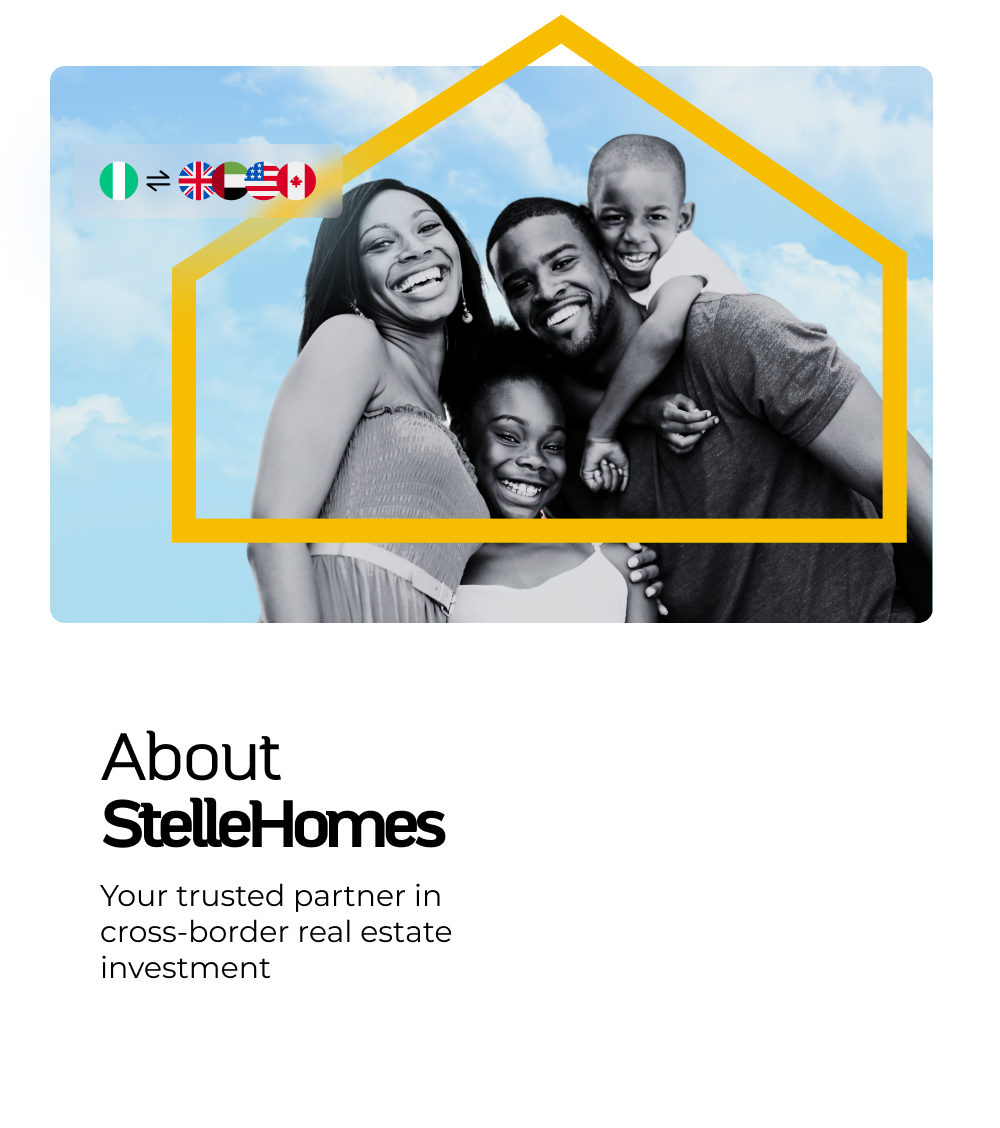
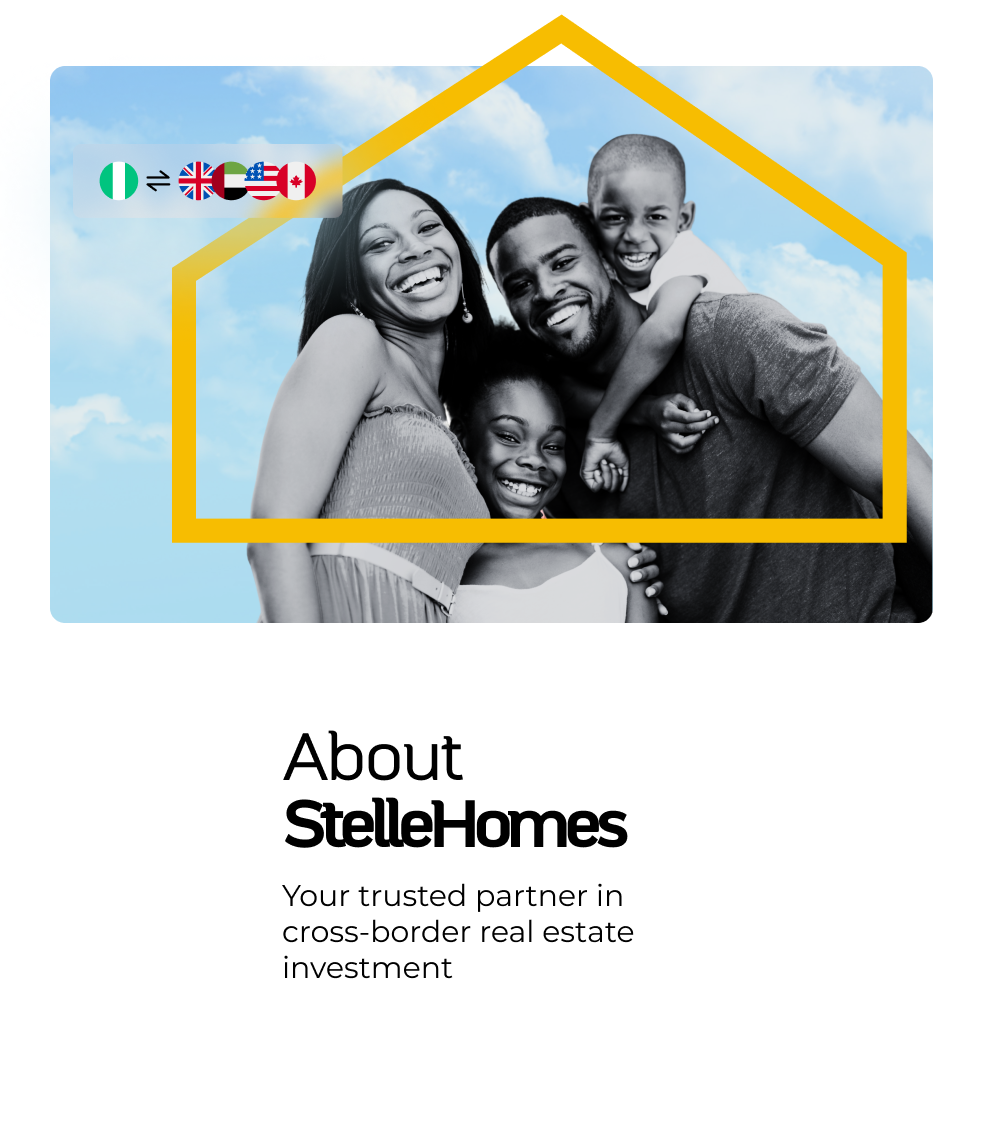
fixed tailwind issues

Changed region(s): [[0.093, 0.6516, 0.651, 0.8688]]

diff --git a/src/components/pages/Services/AdvisorySection.tsx b/src/components/pages/Services/AdvisorySection.tsx
@@ -64,24 +64,23 @@ const servicesData = {
   ],
 };
 
-
 const ServiceCard = ({ service, layout = "default" }: { service: Service; layout?: string }) => {
   return (
     <div
       className={`
         relative w-full max-w-[568px] 
-        h-[172px] 
+        h-auto flex flex-col items-start
+        md:h-[172px] 
         ${layout === "overflow" ? "overflow-hidden" : ""} 
-        max-sm:h-auto max-sm:flex max-sm:flex-col max-sm:items-start
       `}
     >
       <img
-        className="absolute w-[130px] h-[138px] top-1 left-[9px] max-sm:relative max-sm:top-0 max-sm:left-0"
+        className="relative top-0 left-0 md:absolute md:w-[130px] md:h-[138px] md:top-1 md:left-[9px]"
         alt={service.title}
         src={service.image}
       />
       <div
-        className="w-full pl-40 pr-4 absolute top-1 max-sm:pl-0 max-sm:pr-0 max-sm:mt-[8px] max-sm:relative max-sm:top-auto"
+        className="w-full pl-0 pr-0 mt-[8px] relative top-auto md:pl-40 md:pr-4 md:absolute md:top-1"
       >
         <h4 className="[-webkit-text-stroke:0.38px_#000000] font-[MAINLUX-Light] text-black text-[28.2px] leading-[29.3px] mb-1">
           {service.title}
@@ -112,33 +111,38 @@ const SectionHeader = ({
 }) => {
   return (
     <div
-      className={`w-full max-w-[1440px] mx-auto flex flex-col xl1230:flex-row gap-8 mb-16 ${
-        reverse ? "xl1230:flex-row-reverse xl1230:ml-[30px]" : ""
-      }`}
+      className={`w-full max-w-[1440px] mx-auto flex flex-col gap-8 mb-16 
+        md:flex-row 
+        ${reverse ? "md:flex-row-reverse md:ml-[30px]" : ""}`}
     >
       {/* Text */}
       <div
-        className={`w-full xl1230:w-1/2 flex flex-col justify-center ${
-          reverse ? "xl1230:mr-[130px] xl1230:ml-0" : ""
-        }`}
+        className={`w-full flex flex-col justify-center 
+          
+          ${reverse ? "" : ""}`}
       >
-        <h2 className="[-webkit-text-stroke:1.54px_#000000] font-[MAINLUX-Regular] text-black mb-4 text-4xl max-sm:text-5xl xl1230:text-6xl leading-snug">
+        <h2 className="[-webkit-text-stroke:1.54px_#000000] font-[MAINLUX-Regular] text-black mb-4 text-4xl leading-snug 
+          md:text-5xl 
+          lg:text-6xl">
           {title}
         </h2>
-        <p className="font-[Montserrat] text-black text-base max-sm:text-lg xl1230:text-xl leading-relaxed">
+        <p className="font-[Montserrat] text-black text-base leading-relaxed 
+          md:text-lg 
+          lg:text-xl">
           {description}
         </p>
       </div>
 
       {/* Image */}
       <div
-        className={`w-full xl1230:w-[550px] xl1230:flex-shrink-0 ${
-          reverse ? "xl1230:ml-[-50px] xl1230:mr-0" : ""
-        }`}
+        className={`w-full 
+          md:w-[550px] md:flex-shrink-0 
+          ${reverse ? "md:ml-[-50px] md:mr-0" : ""}`}
       >
         <div className="bg-black bg-opacity-20 rounded-[15px] overflow-hidden w-full h-auto">
           <img
-            className="w-full h-auto xl1230:max-w-none xl1230:max-h-none object-cover aspect-[1.7]"
+            className="w-full h-auto object-cover aspect-[1.7] 
+              lg:max-w-none lg:max-h-none"
             alt={title}
             src={image}
           />
@@ -156,7 +160,8 @@ const ServicesGrid = ({ services, title }: { services: Service[]; title: string 
       <h3 className="font-[MAINLUX-semibold] text-black text-[35px] leading-[36.4px] mb-12">
         {title}
       </h3>
-      <div className="grid grid-cols-1 lg:grid-cols-2 gap-6 lg:gap-12">
+      <div className="grid grid-cols-1 gap-6 
+        md:grid-cols-2 md:gap-12">
         {services.map((service, index) => (
           <ServiceCard 
             key={service.id} 
@@ -175,7 +180,8 @@ export const PropertyManagementSection = () => {
     <section className="py-20">
       {/* Section header */}
       <div className="text-center max-w-4xl mx-auto mb-20">
-        <h2 className="[-webkit-text-stroke:1.54px_#000000] font-[MAINLUX-light] text-black text-4xl md:text-6xl leading-[62.4px] mb-8">
+        <h2 className="[-webkit-text-stroke:1.54px_#000000] font-[MAINLUX-light] text-black text-4xl leading-[62.4px] mb-8 
+          md:text-6xl">
           Comprehensive Property Management
         </h2>
         <p className="font-[Montserrat] text-black text-xl leading-[24px]">
@@ -185,9 +191,11 @@ export const PropertyManagementSection = () => {
       </div>
 
       {/* Cards container */}
-      <div className="flex flex-col lg:flex-row gap-8">
+      <div className="flex flex-col gap-8 
+        lg:flex-row">
         {/* Nigerian Properties Card */}
-        <div className="lg:w-1/2 px-4">
+        <div className="px-4 
+          lg:w-1/2">
           <div className="bg-[#ffbf00] rounded-[15px] overflow-hidden flex flex-col h-full">
             <div className="h-[383px] w-full overflow-hidden rounded-t-[15px]">
               <img
@@ -214,7 +222,8 @@ export const PropertyManagementSection = () => {
         </div>
 
         {/* International Properties Card */}
-        <div className="lg:w-1/2 px-4">
+        <div className="px-4 
+          lg:w-1/2">
           <div className="bg-[#ffbf00] rounded-[15px] overflow-hidden flex flex-col h-full">
             <div className="h-[383px] w-full overflow-hidden rounded-t-[15px]">
               <img

diff --git a/src/components/pages/About/MeetOurTeamSection.tsx b/src/components/pages/About/MeetOurTeamSection.tsx
@@ -42,47 +42,46 @@ export const MeetOurTeamSection = (): JSX.Element => {
 
   return (
     <div className="w-full overflow-x-auto bg-white scrollbar-hide">
-
-      <div className="flex px-5 -mt-[50px] w-max h-[854px] max-sm:h-auto max-sm:py-32 max-sm:gap-8">
+      <div className="flex px-5 -mt-[50px] w-max h-auto py-8 gap-8 md:h-[854px] md:py-32 md:gap-0">
         {teamMembers.map((member) => (
           <div
             key={member.id}
-            className="flex items-center justify-center relative max-sm:flex max-sm:gap-6"
+            className="flex items-center justify-center relative gap-4"
           >
-          <div className="relative w-[447px] h-[591px] flex-shrink-0 max-sm:w-[300px] max-sm:h-[400px] max-sm:mx-auto">
-            <div className="relative w-[418px] h-[501px] top-[15px] left-[19px] max-sm:w-[300px] max-sm:h-[350px] max-sm:top-[24px] max-sm:left-[10px]">
-              <div className="absolute top-[54px] w-[418px] h-[447px] bg-[#f7bd01] rounded-[15px] max-sm:top-0 max-sm:w-[300px] max-sm:h-[350px] max-sm:rounded-[10px]" />
-              <img
-                className="absolute w-[418px] h-[501px] sm:top-0 left-0 object-cover max-sm:w-[300px] max-sm:h-[415px] max-sm:bottom-0"
-                alt={member.name}
-                src={member.image}
-              />
-            </div>
-          </div>
-
-          {/* Text card - Fixed width + fixed height */}
-          <div className="flex-shrink-0 max-sm:w-[90vw] max-sm:max-w-[320px] max-sm:mx-auto">
-            <div className="font-[MAINLUX-Regular] flex flex-col w-[567px] h-[450px] 
-                            items-start gap-3.5 px-[40px] pt-[83px] pb-9 
-                            bg-[#d9d9d9] rounded-[15px] 
-                            max-sm:w-[350px] max-sm:h-[350px] max-sm:gap-3 
-                            max-sm:px-5 max-sm:pt-10 max-sm:pb-6 max-sm:rounded-[10px]">
-
-              <div className="[-webkit-text-stroke:0.55px_#000000] text-black text-[40px] font-normal leading-[42px] max-sm:text-[28px] max-sm:leading-[32px]">
-                {member.name}
+            {/* Image container - Reversed dimensions */}
+            <div className="relative w-[300px] h-[400px] flex-shrink-0 mx-auto md:w-[447px] md:h-[591px]">
+              <div className="relative w-[300px] h-[350px] top-[24px] left-[10px] md:w-[418px] md:h-[501px] md:top-[15px] md:left-[19px]">
+                <div className="absolute w-[300px] h-[350px] bg-[#f7bd01] rounded-[10px] top-[60px] md:top-[54px] md:w-[418px] md:h-[447px] md:rounded-[15px]" />
+                <img
+                  className="absolute top-0 left-0 w-[300px] h-[415px] object-cover md:w-[418px] md:h-[501px]"
+                  alt={member.name}
+                  src={member.image}
+                />
               </div>
-
-              <div className="[-webkit-text-stroke:0.55px_#000000] text-black text-3xl font-normal leading-[32px] max-sm:text-[22px] max-sm:leading-[26px]">
-                {member.position}
-              </div>
-
-              <p className="font-[Montserrat] text-black text-xl leading-[24px] 
-                            max-sm:text-base max-sm:leading-[20px] max-sm:w-full max-sm:break-words overflow-hidden">
-                {member.description}
-              </p>
             </div>
-          </div>
 
+            {/* Text card - Reversed dimensions */}
+            <div className="relative top-[60px] md:top-0 flex-shrink-0 w-[90vw] max-w-[320px] mx-auto md:w-auto md:max-w-none">
+              <div className="font-[MAINLUX-Regular] flex flex-col w-[350px] h-[350px] 
+                              items-start gap-3 px-5 pt-10 pb-6 
+                              bg-[#d9d9d9] rounded-[10px] 
+                              md:w-[567px] md:h-[450px] md:gap-3.5 
+                              md:px-[40px] md:pt-[83px] md:pb-9 md:rounded-[15px]">
+
+                <div className="[-webkit-text-stroke:0.55px_#000000] text-black text-[28px] font-normal leading-[32px] md:text-[40px] md:leading-[42px]">
+                  {member.name}
+                </div>
+
+                <div className="[-webkit-text-stroke:0.55px_#000000] text-black text-[22px] font-normal leading-[26px] md:text-3xl md:leading-[32px]">
+                  {member.position}
+                </div>
+
+                <p className="font-[Montserrat] text-black text-base leading-[20px] 
+                              md:text-xl md:leading-[24px] w-full break-words overflow-hidden">
+                  {member.description}
+                </p>
+              </div>
+            </div>
           </div>
         ))}
       </div>

diff --git a/src/components/pages/About/ValuesSection.tsx b/src/components/pages/About/ValuesSection.tsx
@@ -47,7 +47,7 @@ export const ValuesSection = (): JSX.Element => {
         {/* Cards */}
         <div
           className="
-            grid grid-cols-1 sm:grid-cols-2 lg:grid-cols-3 gap-8 justify-items-center
+            grid grid-cols-1 md:grid-cols-2 xl:grid-cols-3 gap-8 justify-items-center
             [@media(min-width:1024px)_and_(max-width:1271px)]:grid-cols-2
           "
         >
@@ -68,7 +68,7 @@ export const ValuesSection = (): JSX.Element => {
             <img
               src={value.svg}
               alt={`${value.title} icon`}
-              className="absolute bottom-8 max-sm:bottom-2 max-sm:right-3 right-8 w-[97px] h-[97px] opacity-0 scale-90 transition-all duration-300 group-hover:opacity-100 group-hover:scale-100"
+              className="absolute md:bottom-8 bottom-2 right-3 md:right-8 w-[97px] h-[97px] opacity-0 scale-90 transition-all duration-300 group-hover:opacity-100 group-hover:scale-100"
             />
           </div>
         ))}

diff --git a/src/components/pages/About/OurApproachSection.tsx b/src/components/pages/About/OurApproachSection.tsx
@@ -135,7 +135,7 @@ const [activeIndex, setActiveIndex] = useState(0);
   };
 
   return (
-    <section className="flex flex-col xl1230:flex-row gap-12 xl1230:gap-[105px] justify-center items-center -mt-10 pt-0 pb-32 px-6 xl1230:px-12">
+    <section className="flex flex-col xl:flex-row gap-12 xl:gap-[105px] justify-center items-center mt-12 pt-0 pb-32 px-6 xl:px-12">
       {/* Left Column */}
       <header className="flex flex-col max-w-full lg:max-w-[447px] gap-6 text-center lg:text-left">
         <h2 className="[-webkit-text-stroke:0.8px_#000000] [font-family:'MAINLUX-Regular',Helvetica] font-normal text-black text-3xl sm:text-4xl lg:text-6xl leading-tight">

diff --git a/src/components/pages/Services/ServicesSection.tsx b/src/components/pages/Services/ServicesSection.tsx
@@ -23,7 +23,7 @@ export const ServicesSection = (): JSX.Element => {
         />
         <h2
           id="services-heading-mobile"
-          className="mt-16 ml-2 max-sm:mb-0 mb-4 font-[MAINLUX-Regular] [-webkit-text-stroke:1.54px_#000000] max-sm:text-4xl text-6xl leading-[48px] text-black text-left"
+          className="mt-16 ml-2 sm:mb-0 mb-4 font-[MAINLUX-Regular] [-webkit-text-stroke:1.54px_#000000] sm:text-4xl text-6xl leading-[48px] text-black text-left"
         >
           Our Services
         </h2>
